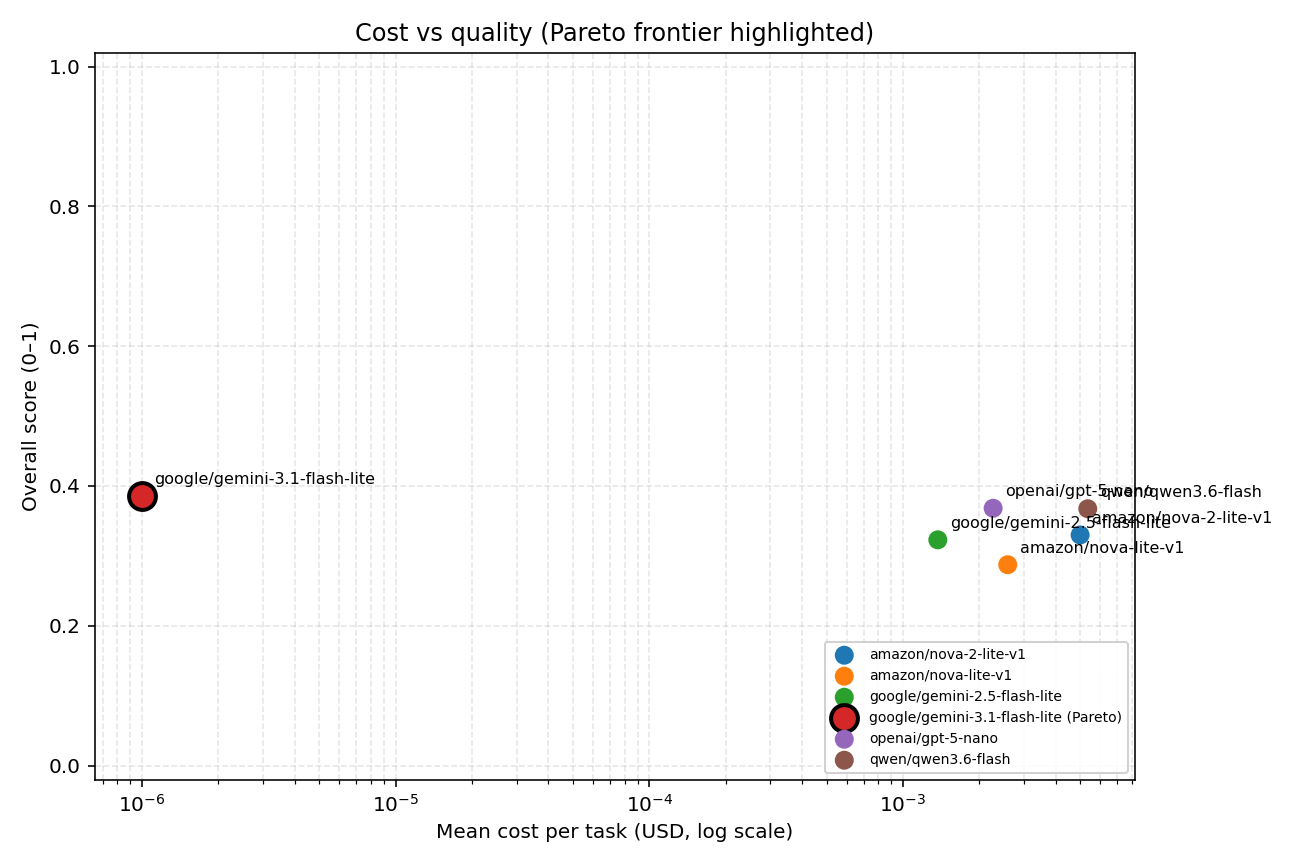
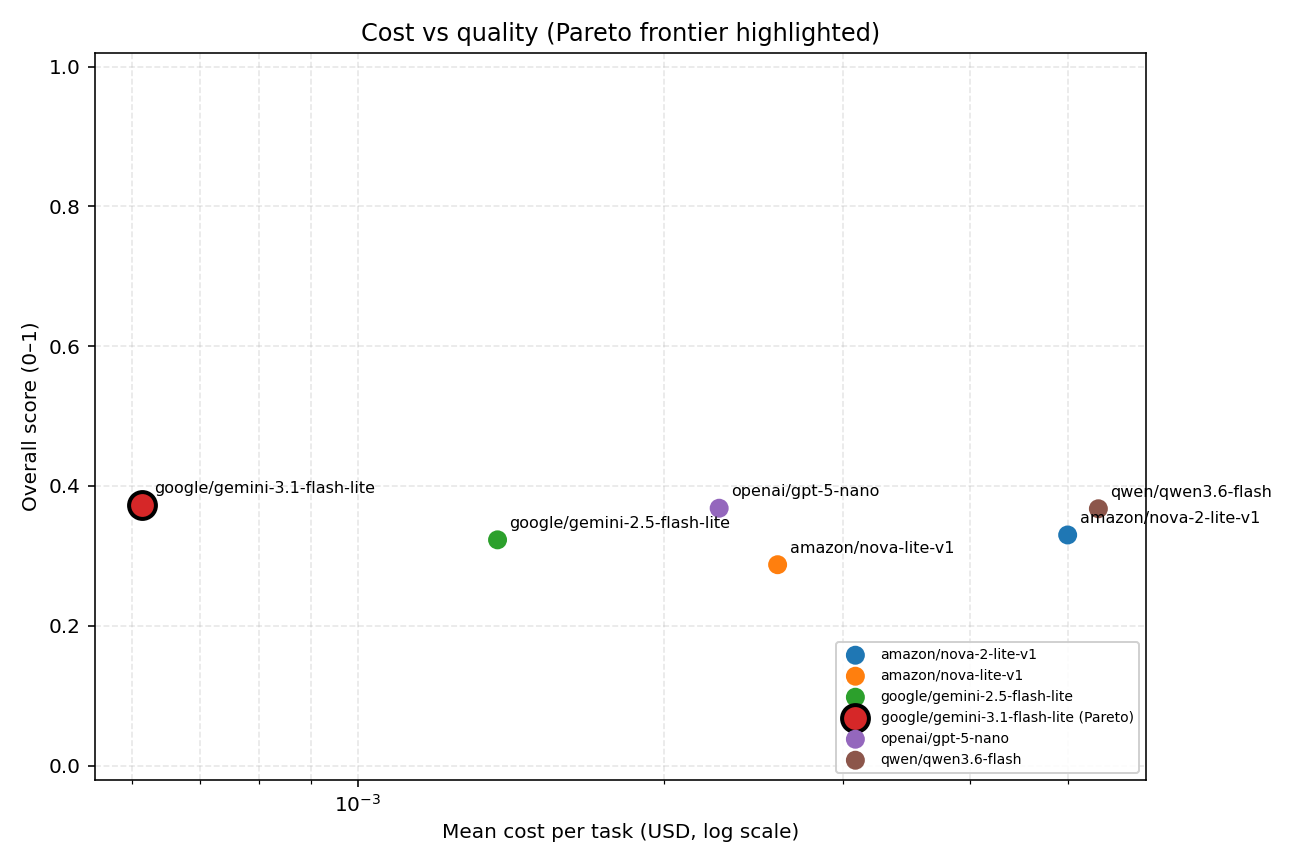
feat(results): rerun gemini-3.1-flash-lite with derived cost; new Pareto winner at $0.049/79-tasks

diff --git a/README.md b/README.md
@@ -58,15 +58,15 @@ Six multimodal "lite/nano/flash" models, 79 tasks each, all routed through OpenR
 
 | Rank | Model | Overall Score | Mean Time | Mean Cost/Task | Total Cost (79 tasks) |
 | ---: | :---- | ------------: | --------: | -------------: | --------------------: |
-| 1 | `google/gemini-3.1-flash-lite` | **38.5%** | 29.2s | $0.0000* | $0.0000* |
+| 1 | `google/gemini-3.1-flash-lite` | **37.3%** | 14.7s | $0.0006 | **$0.049** |
 | 2 | `openai/gpt-5-nano` | 36.8% | 1m 1s | $0.0023 | $0.179 |
 | 3 | `qwen/qwen3.6-flash` | 36.7% | 8.4s | $0.0054 | $0.423 |
 | 4 | `amazon/nova-2-lite-v1` | 33.0% | 1m 1s | $0.0050 | $0.394 |
 | 5 | `google/gemini-2.5-flash-lite` | 32.3% | 15.7s | $0.0014 | $0.108 |
 | 6 | `amazon/nova-lite-v1` | 28.7% | 14.6s | $0.0026 | $0.204 |
 
-> *gemini-3.1-flash-lite returned valid responses on 70/79 tasks but OpenRouter reported $0 cost (free tier / unmetered preview at time of sweep). Real per-call cost is non-zero in production.
-> Tasks where the agent or grader errored count as overall_score=0.0: nova-2-lite-v1 (7), gemini-2.5-flash-lite (9), gpt-5-nano (3), nova-lite-v1 (2).
+> `gemini-3.1-flash-lite` cost is derived from token counts × OpenRouter's listed pricing ($0.25/M input, $1.5/M output) — OpenRouter doesn't return a `cost` field for this model in its chat-completions response, but token counts are present and the math is deterministic.
+> Tasks where the agent or grader errored count as overall_score=0.0: nova-2-lite-v1 (7), gemini-2.5-flash-lite (9), gemini-3.1-flash-lite (3), gpt-5-nano (3), nova-lite-v1 (2).
 
 ![Cost vs quality](docs/reports/cost_vs_quality.png)
 
@@ -76,7 +76,7 @@ Six multimodal "lite/nano/flash" models, 79 tasks each, all routed through OpenR
 
 ![Cost per category](docs/reports/cost_per_category.png)
 
-**Takeaway:** at the cheap-multimodal tier, `gpt-5-nano` and `qwen3.6-flash` are statistically tied on overall quality (~37%), but qwen wraps a full 79-task sweep in 6m 27s vs gpt-5-nano's 29m. For latency-sensitive Amiko paths, qwen3.6-flash is the better cheap-and-fast pick; for pure quality at a low price, gpt-5-nano. All six models struggle on `02_Tool_Composition` (multi-step tool chains) and excel on `03_Access_Control` (one-shot refusal patterns) — the heatmap shows the spread clearly.
+**Takeaway:** at the cheap-multimodal tier, **`google/gemini-3.1-flash-lite` is the Pareto winner** — highest score (37.3%) at the lowest cost ($0.049 for the full 79-task sweep, ~3.7× cheaper than `gpt-5-nano` and ~8.7× cheaper than `qwen3.6-flash`). `gpt-5-nano` and `qwen3.6-flash` are statistically tied at ~37% but cost noticeably more per task. All six models struggle on `02_Tool_Composition` (multi-step tool chains) and excel on `03_Access_Control` (one-shot refusal patterns) — the heatmap shows the spread clearly.
 
 Regenerate everything with `python3 script/report.py` after any new sweep.
 <!-- BENCH:END -->

diff --git a/docs/reports/README_BLOCK.md b/docs/reports/README_BLOCK.md
@@ -1,10 +1,10 @@
 ## Leaderboard
 
-_Auto-generated by `script/report.py` on 2026-05-16 11:19 UTC._
+_Auto-generated by `script/report.py` on 2026-05-16 11:56 UTC._
 
 | Rank | Model | Overall Score | Mean Time | Mean Cost/Task | Total Cost (79 tasks) |
 | ---: | :---- | ------------: | --------: | -------------: | --------------------: |
-| 1 | `google/gemini-3.1-flash-lite` | **38.5%** | 29.2s | $0.0000 | $0.0000 |
+| 1 | `google/gemini-3.1-flash-lite` | **37.2%** | 35.0s | $0.0006 | $0.048 |
 | 2 | `openai/gpt-5-nano` | 36.8% | 1m 1s | $0.0023 | $0.179 |
 | 3 | `qwen/qwen3.6-flash` | 36.7% | 8.4s | $0.0054 | $0.423 |
 | 4 | `amazon/nova-2-lite-v1` | 33.0% | 1m 1s | $0.0050 | $0.394 |
@@ -12,7 +12,7 @@ _Auto-generated by `script/report.py` on 2026-05-16 11:19 UTC._
 | 6 | `amazon/nova-lite-v1` | 28.7% | 14.6s | $0.0026 | $0.204 |
 
 
-> Tasks with agent/grading errors counted as 0.0 overall_score: `amazon/nova-2-lite-v1` (7), `amazon/nova-lite-v1` (2), `google/gemini-2.5-flash-lite` (9), `openai/gpt-5-nano` (3).
+> Tasks with agent/grading errors counted as 0.0 overall_score: `amazon/nova-2-lite-v1` (7), `amazon/nova-lite-v1` (2), `google/gemini-2.5-flash-lite` (9), `google/gemini-3.1-flash-lite` (3), `openai/gpt-5-nano` (3).
 
 ![Cost vs quality](docs/reports/cost_vs_quality.png)
 

diff --git a/docs/reports/leaderboard.md b/docs/reports/leaderboard.md
@@ -1,10 +1,10 @@
 ## Model Leaderboard
 
-_Generated: 2026-05-16 11:19 UTC_
+_Generated: 2026-05-16 11:56 UTC_
 
 | Rank | Model | Overall Score | Mean Time | Mean Cost/Task | Total Cost (79 tasks) |
 | ---: | :---- | ------------: | --------: | -------------: | --------------------: |
-| 1 | `google/gemini-3.1-flash-lite` | **38.5%** | 29.2s | $0.0000 | $0.0000 |
+| 1 | `google/gemini-3.1-flash-lite` | **37.2%** | 35.0s | $0.0006 | $0.048 |
 | 2 | `openai/gpt-5-nano` | 36.8% | 1m 1s | $0.0023 | $0.179 |
 | 3 | `qwen/qwen3.6-flash` | 36.7% | 8.4s | $0.0054 | $0.423 |
 | 4 | `amazon/nova-2-lite-v1` | 33.0% | 1m 1s | $0.0050 | $0.394 |
@@ -12,7 +12,7 @@ _Generated: 2026-05-16 11:19 UTC_
 | 6 | `amazon/nova-lite-v1` | 28.7% | 14.6s | $0.0026 | $0.204 |
 
 
-> Tasks with agent/grading errors counted as 0.0 overall_score: `amazon/nova-2-lite-v1` (7), `amazon/nova-lite-v1` (2), `google/gemini-2.5-flash-lite` (9), `openai/gpt-5-nano` (3).
+> Tasks with agent/grading errors counted as 0.0 overall_score: `amazon/nova-2-lite-v1` (7), `amazon/nova-lite-v1` (2), `google/gemini-2.5-flash-lite` (9), `google/gemini-3.1-flash-lite` (3), `openai/gpt-5-nano` (3).
 
 ### Charts
 
